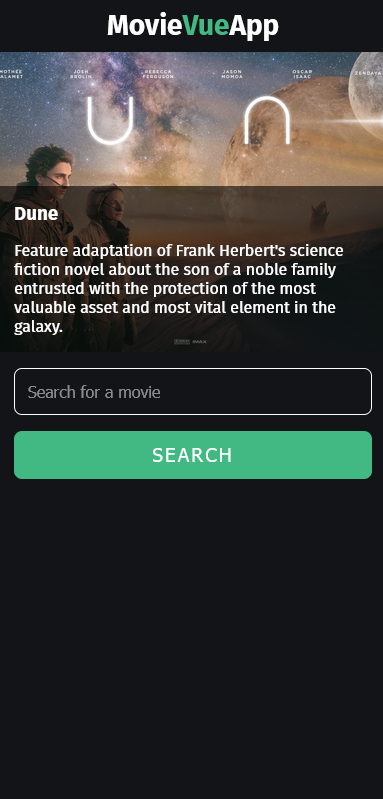
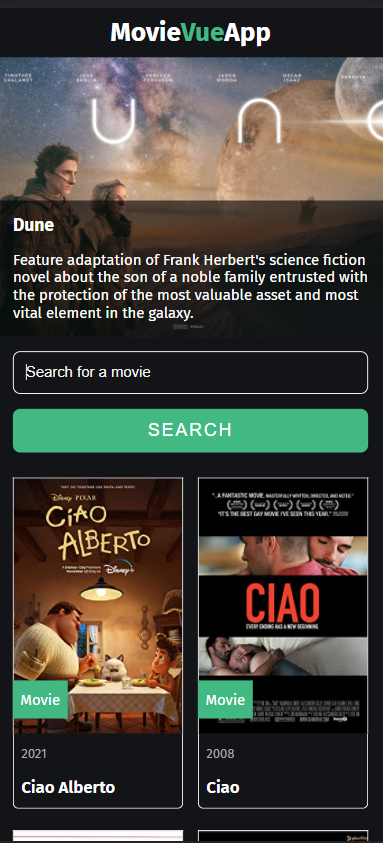
edit readme and screenshot

diff --git a/README.md b/README.md
@@ -4,4 +4,4 @@
   <img src="screenshot.png" />
 </div>
 
-A simple Vue.js app made for learning the framework and how to work with API.
+A simple Vue.js app made for learning the framework and how to work with API. Made with the [OMDb API](http://www.omdbapi.com/).
